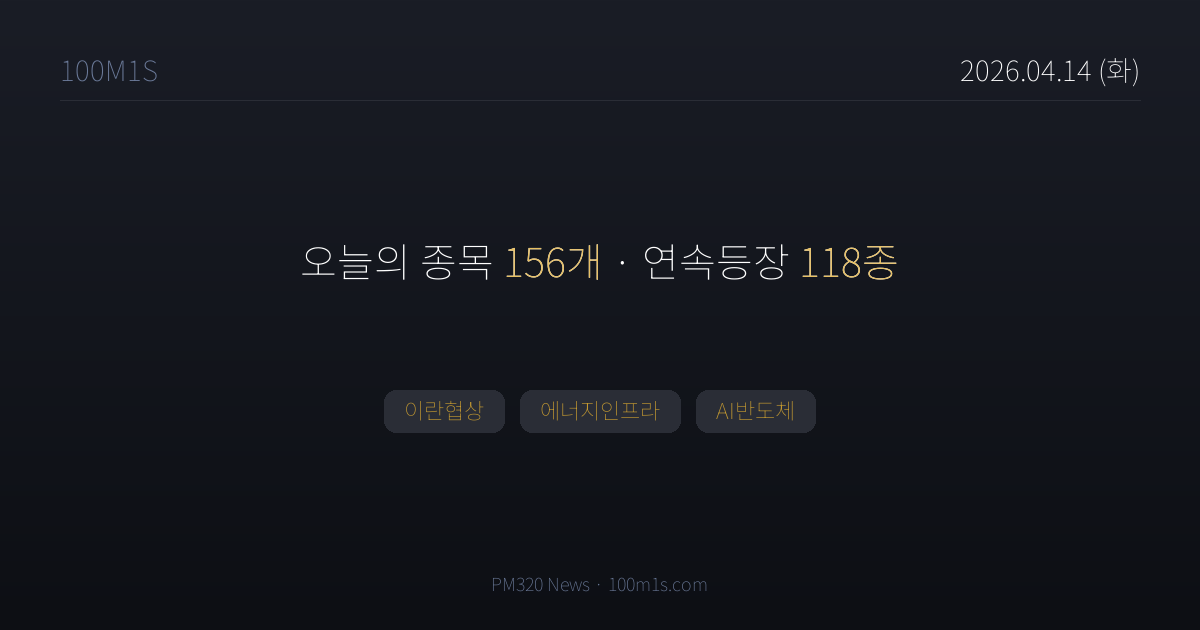
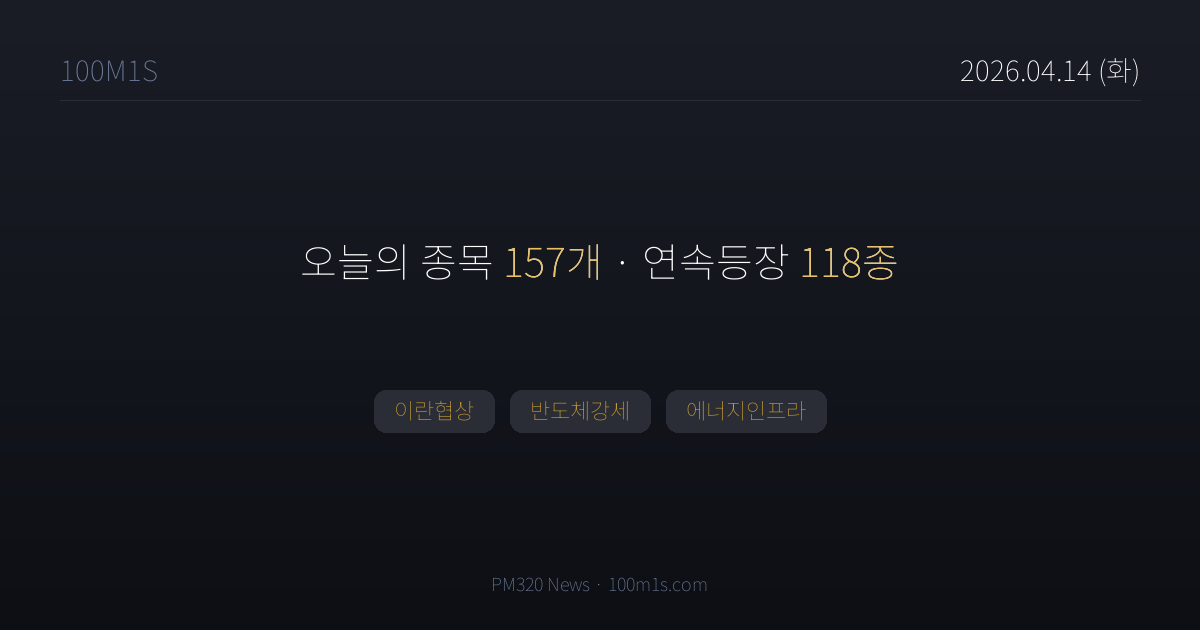
chore(news): 2026-04-14T10:06 pipeline

Changed region(s): [[0.3083, 0.6032, 0.7092, 0.6937], [0.4317, 0.3921, 0.4933, 0.4222]]

diff --git a/news/2026-04-14.html b/news/2026-04-14.html
@@ -3,8 +3,8 @@
 <head>
 <meta charset="UTF-8">
 <title>4월 14일 (화) 뉴스 — 100M1S</title>
-<meta property="og:title" content="4월 14일 (화) · 종목 156개">
-<meta property="og:description" content="이란협상, 에너지인프라, AI반도체">
+<meta property="og:title" content="4월 14일 (화) · 종목 157개">
+<meta property="og:description" content="이란협상, 반도체강세, 에너지인프라">
 <meta property="og:image" content="https://100m1s.com/og/2026-04-14.png">
 <meta property="og:image:width" content="1200">
 <meta property="og:image:height" content="630">
